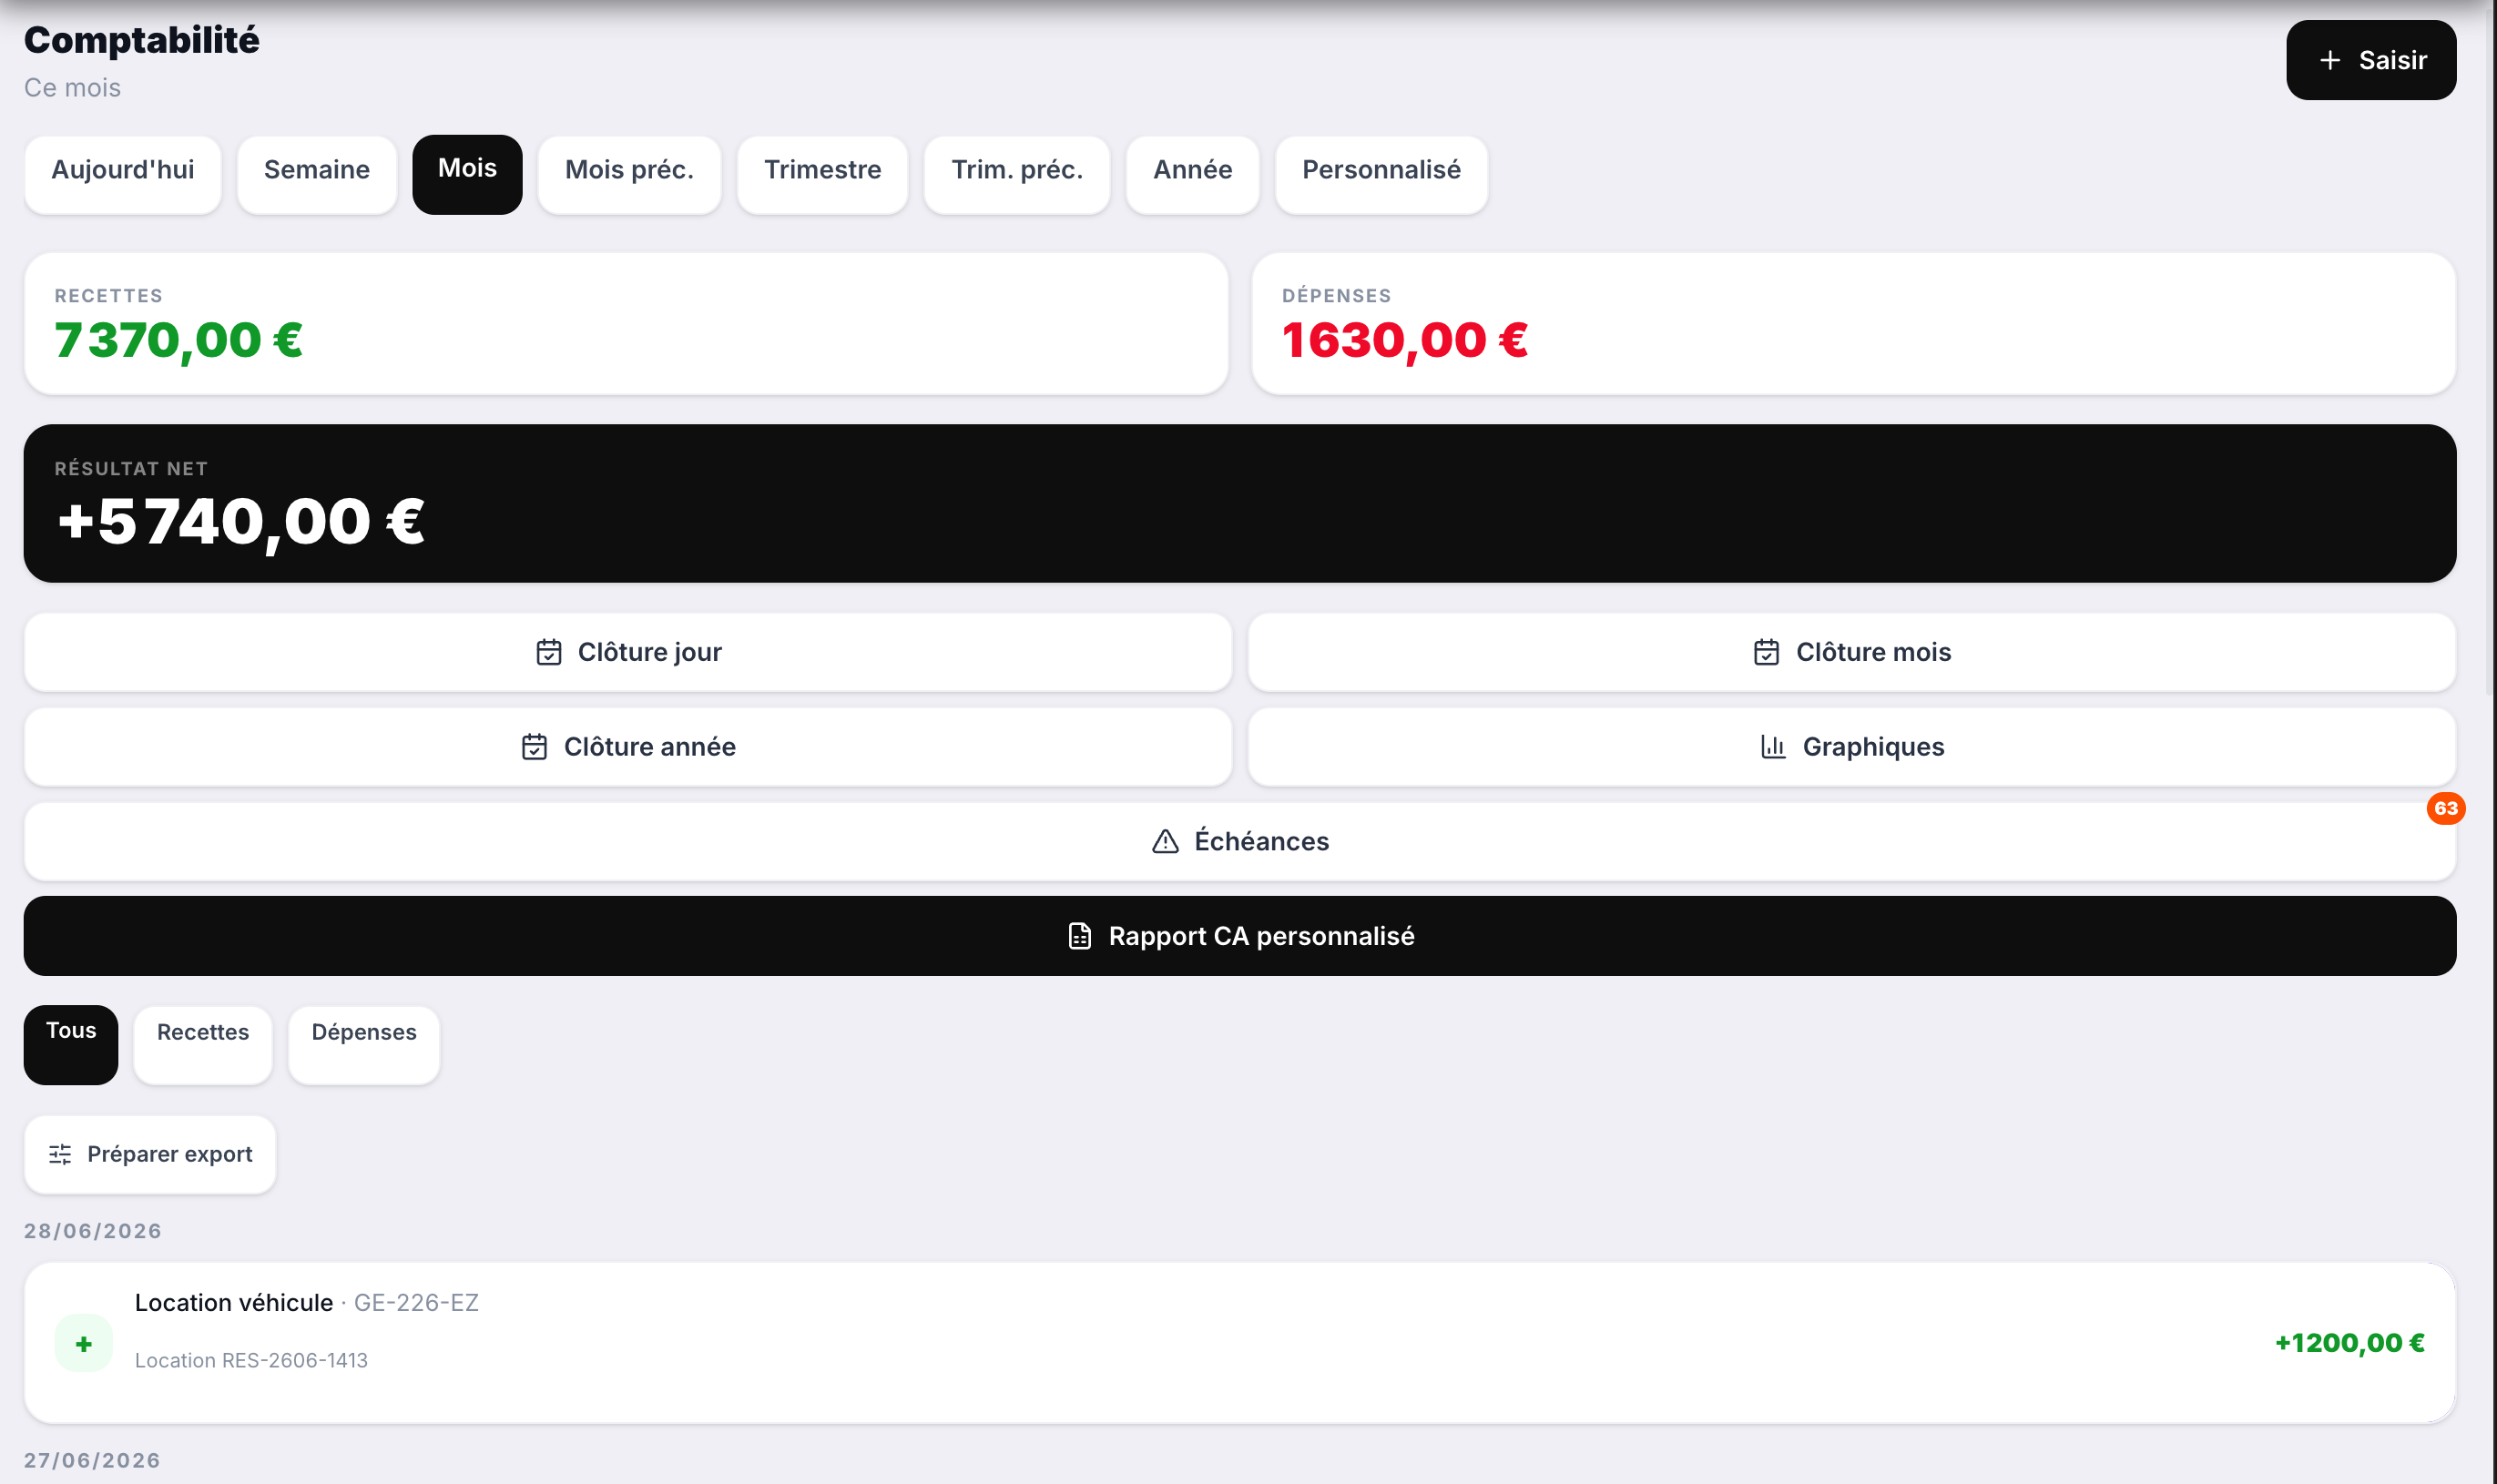
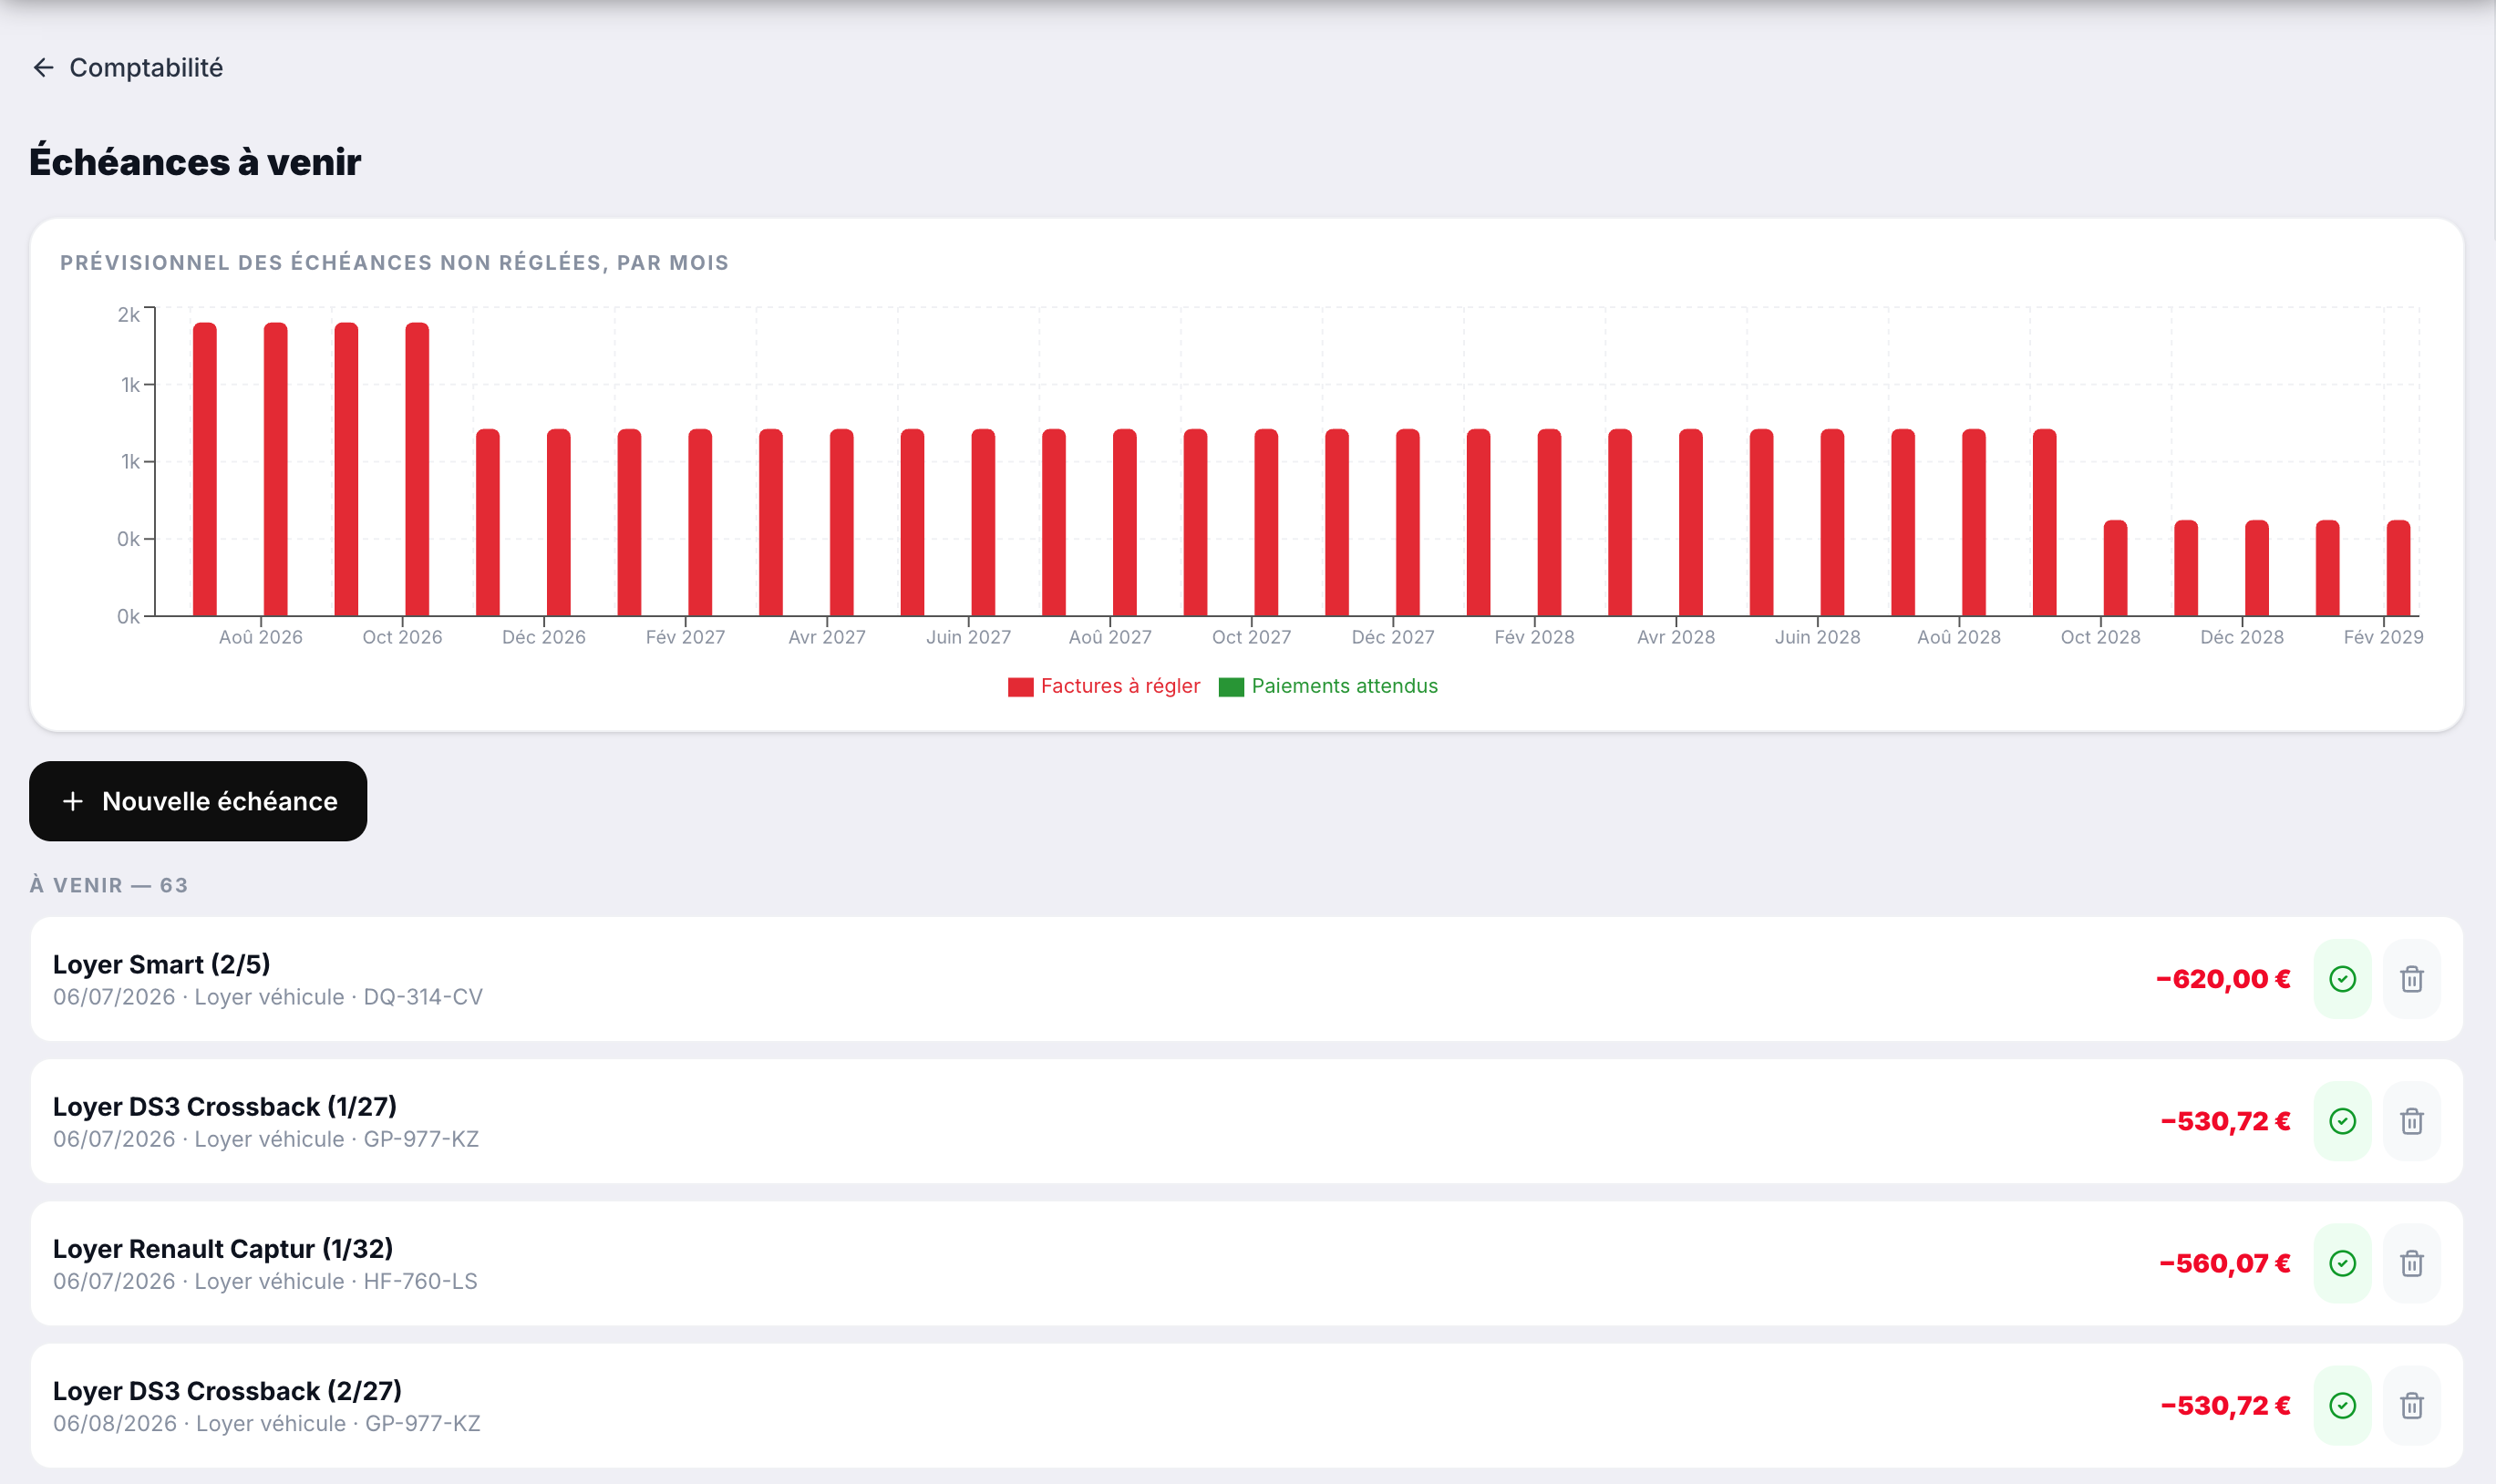
feat: onglets logiciel — screenshots plus parlants + onglet Rentabilité
Flotte, État des lieux et Comptabilité pointent vers de nouveaux visuels
(parc temps réel, schéma d'inspection multi-angles, prévisionnel de
trésorerie). Ajout d'un 6e onglet Rentabilité (dépenses/recettes).
Descriptions FR/EN mises à jour.

diff --git a/lib/content.ts b/lib/content.ts
@@ -83,9 +83,10 @@ const fr: Content = {
     tabs: [
       { id: 'dashboard', label: 'Tableau de bord', img: '/dashboard.png', desc: 'Vue d’ensemble de la flotte : véhicules disponibles, en location, tâches du jour, alertes retard.' },
       { id: 'reservations', label: 'Réservations', img: '/reservations.png', desc: 'Liste des réservations avec statuts en temps réel — en cours, en retard, terminée.' },
-      { id: 'fleet', label: 'Flotte', img: '/flotte.png', desc: 'Fiche détaillée de chaque véhicule : tarification, kilométrage, dommages, performance commerciale.' },
-      { id: 'inspection', label: 'État des lieux', img: '/etat-des-lieux.png', desc: 'Inspection multi-zones sur schéma interactif — comparaison départ / retour avec photos.' },
-      { id: 'accounting', label: 'Comptabilité', img: '/comptabilite.png', desc: 'Recettes, dépenses, résultat net, clôtures, export CSV/PDF/Excel.' },
+      { id: 'fleet', label: 'Flotte', img: '/flotte.png', desc: 'Parc en temps réel : disponibilité, tarif jour, caution, kilométrage et état (dégradé) de chaque véhicule.' },
+      { id: 'inspection', label: 'État des lieux', img: '/etat-des-lieux.png', desc: 'Schéma d’inspection multi-angles pour localiser chaque dommage — vues de dessus, de face, de dos et de profil.' },
+      { id: 'accounting', label: 'Comptabilité', img: '/comptabilite.png', desc: 'Prévisionnel de trésorerie : échéances non réglées par mois, loyers véhicules et factures à régler.' },
+      { id: 'profitability', label: 'Rentabilité', img: '/rentabilite.png', desc: 'Analyse de rentabilité : dépenses par catégorie et par véhicule, recettes comparées aux dépenses.' },
     ],
   },
   how: {
@@ -159,9 +160,10 @@ const en: Content = {
     tabs: [
       { id: 'dashboard', label: 'Dashboard', img: '/dashboard.png', desc: 'Fleet overview: available vehicles, on rental, daily tasks, late return alerts.' },
       { id: 'reservations', label: 'Reservations', img: '/reservations.png', desc: 'Reservation list with real-time status — active, overdue, completed.' },
-      { id: 'fleet', label: 'Fleet', img: '/flotte.png', desc: 'Detailed vehicle card: pricing, mileage, damage records, commercial performance.' },
-      { id: 'inspection', label: 'Inspections', img: '/etat-des-lieux.png', desc: 'Multi-zone inspection on interactive diagram — departure/return comparison with photos.' },
-      { id: 'accounting', label: 'Accounting', img: '/comptabilite.png', desc: 'Revenue, expenses, net result, closings, CSV/PDF/Excel export.' },
+      { id: 'fleet', label: 'Fleet', img: '/flotte.png', desc: 'Real-time fleet: availability, daily rate, deposit, mileage and condition (damaged) per vehicle.' },
+      { id: 'inspection', label: 'Inspections', img: '/etat-des-lieux.png', desc: 'Multi-angle inspection diagram to pinpoint every damage — top, front/rear and side views.' },
+      { id: 'accounting', label: 'Accounting', img: '/comptabilite.png', desc: 'Cash-flow forecast: unpaid installments per month, vehicle leases and invoices due.' },
+      { id: 'profitability', label: 'Profitability', img: '/rentabilite.png', desc: 'Profitability analysis: expenses by category and by vehicle, revenue vs expenses.' },
     ],
   },
   how: {